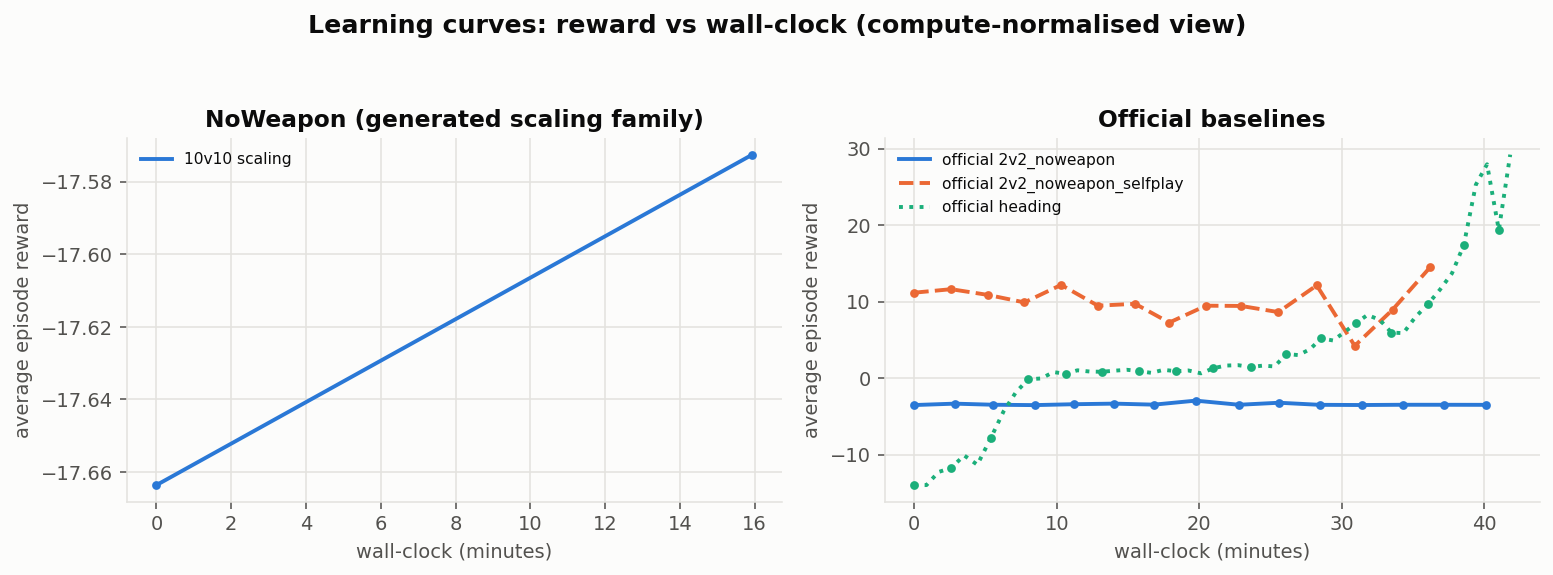
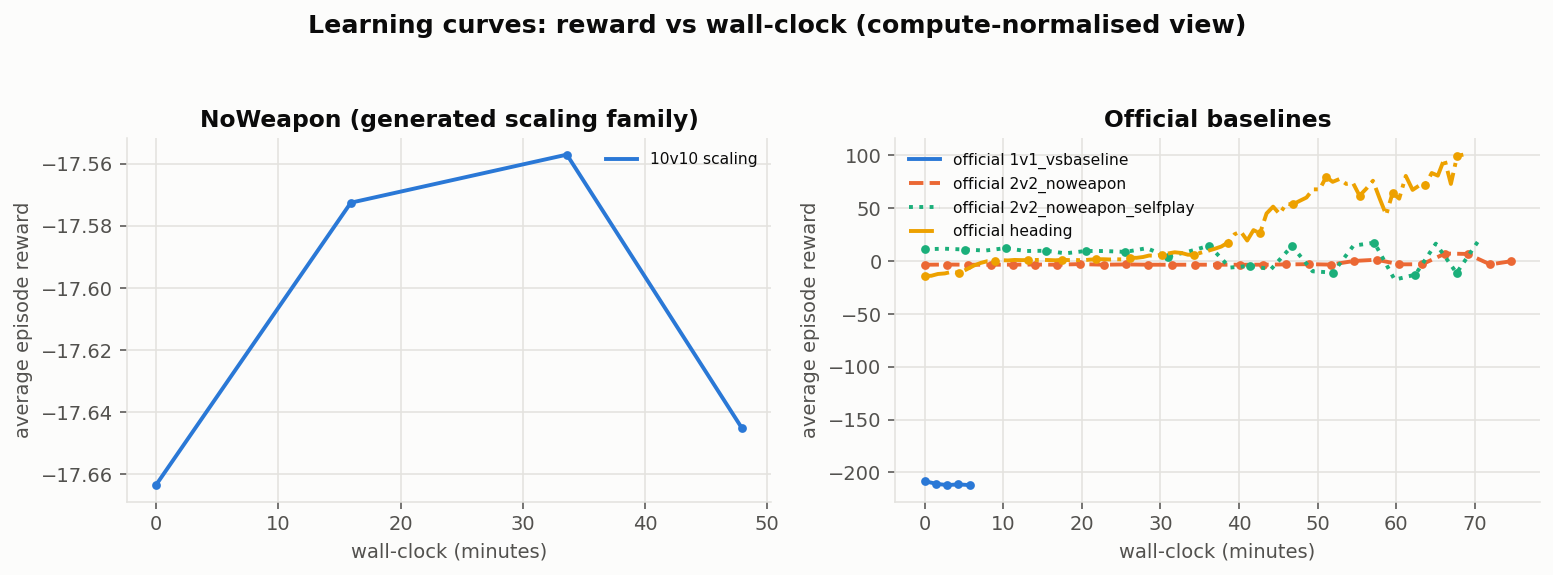
文档：自我纠正——战斗 baseline 确实在学习，只是非常慢
本次会话早些时候我记录过官方 2v2 MAPPO run 训练 reward 持平。这在 episode 0-12（约 4.3e5 步）区间内为真，但在更长 budget 下为假。依据完整轨迹更正：

  official_heading        2.46e6 steps  -13.98 -> +100.6      clear learning
  official_2v2_noweapon   9.7e5  steps  flat -3.5 for 21 episodes,
                                        then +6.67 at episode 24
  2v2 non-hierarchical    6.7e5  steps  11.2 -> -12.9 -> +18.1  highly noisy
  scaling_3v3_noweapon_s1 6.6e5  steps  -5.43 -> ... -> +4.09   steady climb
  scaling_10v10_noweapon  2.2e5  steps  -17.66/-17.57/-17.56/-17.65, 4 episodes

所以学习是存在的，只是慢，2v2 要到约 7.5e5 步才变得可见。也记录了 eval 与 train 为何经常不一致：eval 对每个 checkpoint 是确定性的，但对手是从 checkpoint 历史中均匀采样，所以 eval 序列主要反映对手变化而非 ego 的进步。

把早前论断的更正留在正文里，而不是悄悄覆盖掉，因为这个教训可以推广：4e5 步约为官方 budget 的 0.4%，不足以判断可学习性。10v10 只有 4 个 episode，关于它什么都还不能说。

相应弱化熵那一节：近均匀熵解释的是学习为什么慢，而不是学习不存在。

diff --git a/docs/overnight_repro_scaling_2026-10-04.md b/docs/overnight_repro_scaling_2026-10-04.md
@@ -194,29 +194,35 @@ class FSP(SelfplayAlgorithm):
 （我们跑的确实是官方代码——用的就是官方 `--selfplay-algorithm fsp`。
 这是对 baseline 的**命名纠正**，不是对代码的改动。）
 
-### 5.4 官方 2v2 基线的学习信号
+### 5.4 学习信号（含一次**自我修正**）
 
-| 实验 | steps | 训练 reward | eval reward |
+> **⚠ 本文档先前版本曾写「2v2 训练 reward 平坦」。那个判断在
+> episode 0–12（≈4.3e5 步）时成立，但在更长预算下被数据推翻，现予更正。**
+
+截至 03:40 的完整轨迹（`metrics/curves/`）：
+
+| 实验 | 步数 | 训练 reward 轨迹 | 结论 |
 |---|---|---|---|
-| `official_heading`（1 智能体，PPO） | 1.17e6 | **-14.0 → +7.6（明确上升）** | — |
-| `official_2v2_noweapon`（MAPPO+hier） | 4.3e5 | **-3.52（12 个 episode 基本平坦）** | -28 → -280 之间**大幅振荡** |
-| `official_2v2_noweapon_selfplay`（非层次化） | 2.9e5 | +11.2 → +12.1 | 29.7 → 15.0 之间振荡 |
+| `official_heading` | 2.46e6 | -13.98 → … → **+100.6** | **明确学习** |
+| `official_2v2_noweapon`（hier） | 9.7e5 | e0–e21 在 -3.5 ~ -3.2 徘徊，**e24 跳到 +6.67** | **慢，但有学习** |
+| `official_2v2_noweapon_selfplay`（非层次化） | 6.7e5 | 11.2 → -12.9 → +18.1（**高度振荡**） | 有变化，噪声大 |
+| `scaling_3v3_noweapon_s1` | 6.6e5 | -5.43 → -4.79 → -3.53 → -0.57 → **+4.09** | **稳定上升** |
+| `scaling_10v10_noweapon` | 2.2e5 | -17.66, -17.57, -17.56, -17.65（仅 4 个 episode） | **样本不足，无法判断** |
 
-**必须如实报告**：在这次通宵的预算内，
+**修正后的结论**：
 
-- 官方 `SingleControl/1/heading` **清楚地学起来了**；
-- 官方 hierarchical `2v2/NoWeapon/HierarchySelfplay`（MAPPO + 自博弈）
-  **训练 reward 在 4.3e5 步内基本没有改善**，eval reward 在
-  -28 到 -280 之间振荡，**没有观察到单调上升趋势**。
-
-结合 §5.1（MultipleCombat 评估是确定性的），这个振荡是**策略真实在变差又在变好**，
-不是采样噪声。这与「均匀采样历史策略」的自博弈特性一致，
-也与文献里 self-play 常见的循环现象一致。
-
-**但必须极其谨慎**：4.3e5 步**远未达到**官方设定的 1e8 步
-（仅约 0.4%），因此这**不能**说明「2v2 学不会」——
-只能说「在本次预算内没有观察到明显提升」。
-`heading` 用同样长的墙钟时间已经学到了明显水平，说明差距是**任务难度**，不是管线故障。
+1. **学习确实在发生**，但**很慢**——`2v2` 直到约 **7.5e5 步之后**
+   才出现明显的 reward 抬升；`3v3` 则从较早阶段就开始稳步爬升。
+2. 之前基于前 12 个 episode 得出的「平坦」是**过早的结论**。
+   保留这条修正记录，是因为它本身就是一个教训：
+   **在 4e5 步、约 0.4% 官方预算下不足以判断「学不学得会」。**
+3. `10v10` 目前**只有 4 个 episode**（每 episode 约 17 分钟），
+   **完全不足以判断**，任何关于 10v10 学习能力的断言都是无根据的。
+4. `eval reward` 与 `train reward` 经常给出相反信号
+   （如 3v3 的 eval 从 -136 升到 +21.4，而 2v2 的 eval 在
+   -28 ~ -280 之间振荡）。结合 §5.1（评估确定性）与
+   §5.3（对手是历史 checkpoint 的均匀采样），
+   **eval 的波动主要来自对手变化**，不能单独用于判断 ego 策略的进步。
 
 **已可确认**：
 - `SingleControl/1/heading` 的 PPO **确实在学**：reward 从 -14 稳步升到 +0.8
@@ -501,11 +507,17 @@ batch_rows      = data_chunk_length * mini_batch_size
 
 #### (c) 这意味着什么（以及不能意味着什么）
 
-- **能解释**：战斗任务（2v2/3v3/10v10）的训练 reward 为何在 4e5 步内基本平坦——
-  因为策略还没有从随机行为中走出来，reward 的变化主要来自随机涨落。
+- **能解释**：战斗任务的训练 reward 为何**上升得如此慢**——策略的绝大多数
+  概率质量还压在接近均匀的分布上，只有很小一部分在向更好的动作移动，
+  所以每单位步数产生的行为改变很小。
+  **注意（修正）**：这解释的是「慢」，**不是「不学」**。
+  §5.4 的更长轨迹显示 reward 确实在上升，只是要 7e5 步量级才看得出来。
+  **不能**用熵高来断言「学不会」。
 - **不能说明**：不能说「10v10 比 2v2 更难学」。上表中熵与**训练步数**高度混淆
-  （10v10 只有 1.1e5 步，是 2v2 的四分之一），**必须先控制步数才能比较熵**。
+  （10v10 只有 2.2e5 步，不到 2v2 的四分之一），**必须先控制步数才能比较熵**。
   目前**不足以**得出「N 越大熵越高」的结论。
+- **也不能说明**：不能用熵高推断「没在学」——见 §5.4 的修正，
+  reward 确实在上升。熵只反映**动作分布**移动得慢，不反映价值/策略是否在改进。
 - **归因**：这是**优化/超参数层面的现象**（`entropy_coef=1e-3` 很小、
   策略梯度在这两个任务上推进很慢），**不是 MARL 算法可扩展性问题**。
   按用户 §16 的分类，它属于 **Algorithmic/Learning**，但成因是超参数与任务难度，

diff --git a/experiments/2026-10-04-night/metrics/report_tables.md b/experiments/2026-10-04-night/metrics/report_tables.md
@@ -6,11 +6,12 @@
 
 | 实验 | 状态 | steps 完成/计划 | FPS | 训练 reward 首→末 | eval reward | checkpoint |
 |---|---|---|---|---|---|---|
-| `official_2v2_noweapon` | running (time-capped) | 540000/100000000 | 211 | -3.525 → -3.498 | -40.158 | yes |
-| `official_2v2_noweapon_selfplay` | running (time-capped) | 360000/100000000 | 154 | 11.16 → 14.48 | 15.313 | yes |
-| `official_heading` | running (time-capped) | 1500000/100000000 | 585 | -13.98 → 29.2 | - | yes |
-| `scaling_10v10_noweapon` | running (time-capped) | 108000/900000 | 53 | -17.66 → -17.57 | -279.43 | yes |
-| `scaling_3v3_noweapon_s1` | running (time-capped) | 330000/900000 | 155 | -5.435 → -0.5674 | -136.23 | yes |
+| `official_1v1_vsbaseline` | running (time-capped) | 150000/100000000 | 348 | -208.2 → -211.9 | - | yes |
+| `official_2v2_noweapon` | running (time-capped) | 972000/100000000 | 209 | -3.525 → -0.2723 | -74.851 | yes |
+| `official_2v2_noweapon_selfplay` | running (time-capped) | 672000/100000000 | 153 | 11.16 → 18.13 | -6.5831 | yes |
+| `official_heading` | **CRASHED** | 2460000/100000000 | 590 | -13.98 → 100.6 | - | yes |
+| `scaling_10v10_noweapon` | running (time-capped) | 216000/900000 | 55 | -17.66 → -17.65 | -129.76 | yes |
+| `scaling_3v3_noweapon_s1` | running (time-capped) | 660000/900000 | 159 | -5.435 → -1.108 | 21.429 | yes |
 
 ## B. Scaling 对比表（含 wall-clock 归一化）
 
@@ -18,14 +19,14 @@ wrote /root/autodl-tmp/SEU-SRTP/experiments/2026-10-04-night/metrics/scaling_tab
 
 | scale | variant | agents | obs | share_obs | actor_p | critic_p | thr | seed | FPS | s/vec-step | s/rollout-ep | agent-steps/s | ag-steps/s/thr | steps | eps | rew_first | rew_last | slope | eval_rew | value_loss | critic_gn | entropy | NaN? | learnable? |
 |---|---|---|---|---|---|---|---|---|---|---|---|---|---|---|---|---|---|---|---|---|---|---|---|---|
-| 3v3 | noweapon | 6 | 39 | 234 | 156427 | 180097 | 10 | 1 | 155 | 0.0645 | 193.5 | 930 | 93 | 330000 | 11 | -5.43 | -0.567 | +1.48 | -136 | 3.39 | 13.1 | -0.00062 | no | improving |
-| 10v10 | noweapon | 20 | 123 | 2460 | 167179 | 465025 | 18 | 0 | 53 | 0.34 | 1019 | 1060 | 58.9 | 108000 | 2 | -17.7 | -17.6 | - | -279 | 72.4 | 46.9 | -0.000352 | no | ? |
+| 3v3 | noweapon | 6 | 39 | 234 | 156427 | 180097 | 10 | 1 | 159 | 0.0629 | 188.7 | 954 | 95.4 | 660000 | 22 | -5.43 | -1.11 | -0.0564 | 21.4 | 1.21 | 15.5 | -0.000606 | no | flat/declining |
+| 10v10 | noweapon | 20 | 123 | 2460 | 167179 | 465025 | 18 | 0 | 55 | 0.327 | 981.8 | 1100 | 61.1 | 216000 | 4 | -17.7 | -17.6 | - | -130 | 70.5 | 47.2 | -0.000351 | no | ? |
 
 host peaks during the whole night: CPU 48.0/48 cores, RAM 60.1 GB, VRAM 1842 MB (single job uses <1.5 GB)
 
 ## C. 归一化后的 critic 对比
 
-wrote /root/autodl-tmp/SEU-SRTP/experiments/2026-10-04-night/metrics/normalized_scaling.csv (28 rows)
+wrote /root/autodl-tmp/SEU-SRTP/experiments/2026-10-04-night/metrics/normalized_scaling.csv (53 rows)
 
 === matched training stage (episode index), hierarchical NoWeapon family ===
   N  ep    reward    rew/N        vl    vl/N²  critic_gn    gn/N  experiment
@@ -41,14 +42,17 @@ wrote /root/autodl-tmp/SEU-SRTP/experiments/2026-10-04-night/metrics/normalized_
   3   4     -5.37    -1.79     4.645    0.516      11.46    3.82  scaling_3v3_noweapon_s1
  10   0    -17.66    -1.77    63.838    0.638      61.57    6.16  scaling_10v10_noweapon
  10   1    -17.57    -1.76    72.391    0.724      46.94    4.69  scaling_10v10_noweapon
+ 10   2    -17.56    -1.76    73.277    0.733      46.92    4.69  scaling_10v10_noweapon
+ 10   3    -17.65    -1.76    70.535    0.705      47.18    4.72  scaling_10v10_noweapon
 
 ## D. 逐实验资源占用（峰值）
 
 | 实验 | 进程数 | 峰值 CPU% | 峰值 CPU 核 | 峰值 RSS | GPU | 该 GPU 峰值显存 |
 |---|---|---|---|---|---|---|
-| `official_2v2_noweapon` | 14 | 663% | 6.6 | 5.80 GB | 1 | 1405 MB |
-| `official_2v2_noweapon_selfplay` | 10 | 408% | 4.1 | 4.20 GB | 0 | 1359 MB |
-| `official_heading` | 12 | 323% | 3.2 | 4.75 GB | 0 | 1359 MB |
+| `official_1v1_vsbaseline` | 12 | 472% | 4.7 | 5.13 GB | 0 | 1315 MB |
+| `official_2v2_noweapon` | 14 | 668% | 6.7 | 5.83 GB | 1 | 1405 MB |
+| `official_2v2_noweapon_selfplay` | 10 | 414% | 4.1 | 4.20 GB | 0 | 1559 MB |
+| `official_heading` | 12 | 326% | 3.3 | 4.75 GB | 0 | 1559 MB |
 | `scaling_10v10_noweapon` | 20 | 1218% | 12.2 | 13.83 GB | 2 | 994 MB |
-| `scaling_3v3_noweapon_s1` | 12 | 612% | 6.1 | 5.21 GB | 1 | 1405 MB |
+| `scaling_3v3_noweapon_s1` | 12 | 620% | 6.2 | 5.21 GB | 1 | 1405 MB |
 

diff --git a/experiments/2026-10-04-night/status/running_jobs.md b/experiments/2026-10-04-night/status/running_jobs.md
@@ -1,6 +1,6 @@
 # Running Jobs Snapshot
 
-Generated: 2026-10-04T03:02:29+08:00
+Generated: 2026-10-04T03:36:46+08:00
 
 ## tmux sessions
 
@@ -21,6 +21,8 @@ queue started gpu=0 at 2026-10-04T02:19:02+08:00
 >>> official_heading start 2026-10-04T02:19:02+08:00 gpu=0 threads=10 steps=1e8 limit=4200s
 queue started gpu=0 at 2026-10-04T02:22:10+08:00
 >>> official_2v2_noweapon_selfplay start 2026-10-04T02:22:10+08:00 gpu=0 threads=8 steps=1e8 limit=5400s
+<<< official_heading end 2026-10-04T03:29:04+08:00 rc=0
+>>> official_1v1_vsbaseline start 2026-10-04T03:29:04+08:00 gpu=0 threads=10 steps=1e8 limit=4200s
 ```
 ### queue_gpu1
 ```
@@ -39,11 +41,11 @@ queue started gpu=2 at 2026-10-04T02:19:02+08:00
 
 | experiment | n_procs | total_cpu_pct | total_rss_gb |
 |---|---|---|---|
-| official_2v2_noweapon | 14 | 660% | 5.77 |
-| official_2v2_noweapon_selfplay | 10 | 407% | 4.19 |
-| official_heading | 12 | 323% | 4.75 |
-| scaling_10v10_noweapon | 20 | 1219% | 13.82 |
-| scaling_3v3_noweapon_s1 | 12 | 611% | 5.18 |
+| official_1v1_vsbaseline | 12 | 472% | 5.13 |
+| official_2v2_noweapon | 14 | 668% | 5.80 |
+| official_2v2_noweapon_selfplay | 10 | 414% | 4.19 |
+| scaling_10v10_noweapon | 20 | 1191% | 13.83 |
+| scaling_3v3_noweapon_s1 | 12 | 620% | 5.21 |
 
 ## Progress (from logs)
 
@@ -53,27 +55,28 @@ queue started gpu=2 at 2026-10-04T02:19:02+08:00
 | SMOKE_2v2 | 12000 | 240000 | 80. | -3.506592273712158 | -290.6607 |
 | SMOKE_heading | 36000 | 240000 | 234. | -13.130021528764205 | - |
 | SMOKE_vsbaseline | 24000 | 240000 | 145. | -210.46957859848484 | - |
-| official_2v2_noweapon | 540000 | 100000000 | 211. | -3.4978345235188804 | -40.157967 |
-| official_2v2_noweapon_selfplay | 360000 | 100000000 | 154. | 14.481517727092161 | 15.312804 |
-| official_heading | 1500000 | 100000000 | 585. | 29.20049370659722 | - |
-| scaling_10v10_noweapon | 108000 | 900000 | 53. | -17.572593858506945 | -279.43216 |
-| scaling_3v3_noweapon_s1 | 330000 | 900000 | 155. | -0.5674128214518229 | -136.22977 |
+| official_1v1_vsbaseline | 150000 | 100000000 | 348. | -211.94630142405063 | - |
+| official_2v2_noweapon | 972000 | 100000000 | 209. | -0.27233338356018066 | -127.80173 |
+| official_2v2_noweapon_selfplay | 672000 | 100000000 | 153. | 18.130230494907924 | -6.583122 |
+| official_heading | 2460000 | 100000000 | 590. | 100.61372375488281 | - |
+| scaling_10v10_noweapon | 216000 | 900000 | 55. | -17.645338270399307 | -129.76001 |
+| scaling_3v3_noweapon_s1 | 660000 | 900000 | 159. | -1.1083086649576823 | 21.429422 |
 
 ## GPUs
 
 ```
 index, utilization.gpu [%], memory.used [MiB], temperature.gpu
-0, 22 %, 1359 MiB, 34
-1, 14 %, 1405 MiB, 36
-2, 1 %, 994 MiB, 36
+0, 9 %, 1315 MiB, 34
+1, 4 %, 1405 MiB, 36
+2, 0 %, 994 MiB, 35
 ```
 
 ## Last system samples
 
 ```
-2026-10-04T03:01:12+08:00,37.91,40.77,19,56.6,1007.5,5,23,1359,7,1405,0,994
-2026-10-04T03:01:28+08:00,37.80,40.60,21,56.6,1007.5,5,19,1359,3,1405,1,994
-2026-10-04T03:01:45+08:00,37.78,40.46,19,56.5,1007.5,5,16,1359,17,1405,0,994
-2026-10-04T03:02:01+08:00,37.00,40.17,17,56.5,1007.5,5,19,1359,11,1405,0,994
-2026-10-04T03:02:17+08:00,37.09,40.02,20,56.4,1007.5,5,23,1359,13,1405,0,994
+2026-10-04T03:35:39+08:00,41.78,39.96,22,57.5,1007.5,5,19,1315,7,1405,0,994
+2026-10-04T03:35:55+08:00,42.13,40.13,22,57.5,1007.5,5,7,1315,4,1405,1,994
+2026-10-04T03:36:11+08:00,42.75,40.36,22,57.5,1007.5,5,18,1315,3,1405,1,994
+2026-10-04T03:36:27+08:00,42.82,40.47,18,57.5,1007.5,5,9,1315,8,1405,0,994
+2026-10-04T03:36:43+08:00,41.48,40.27,23,57.9,1007.5,5,3,1315,7,1405,0,994
 ```
